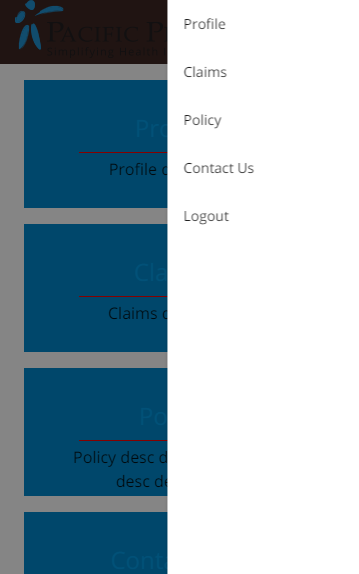
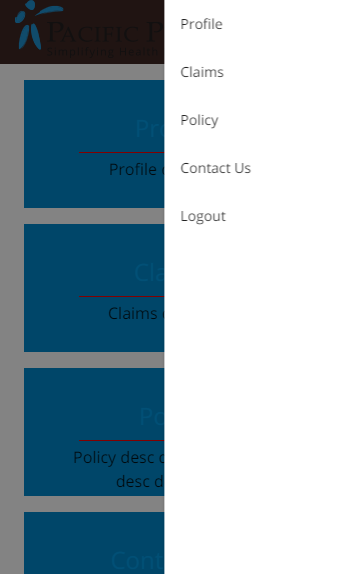
browser test add logout btn screen

Changed region(s): [[0.4596, 0.0, 0.7047, 1.0]]

diff --git a/browser_test/BaseTestCase.php b/browser_test/BaseTestCase.php
@@ -27,12 +27,18 @@ class BaseTestCase extends TestCase
     public function mobileSetUp()
     {
         $mobile = [
-            '--user-agent=Mozilla/5.0 (Linux; Android 6.0; Nexus 5 Build/MRA58N) AppleWebKit/537.36 (KHTML, like Gecko) Chrome/52.0.2725.0 Mobile Safari/537.36',
-            '--window-size=375,667',
-            '--hide-scrollbars',
+            //'--user-agent=Mozilla/5.0 (Linux; Android 6.0; Nexus 5 Build/MRA58N) AppleWebKit/537.36 (KHTML, like Gecko) Chrome/52.0.2725.0 Mobile Safari/537.36',
+            '--window-size=450,900',
+            //'--hide-scrollbars',
         ];
         $options = new ChromeOptions();
         $options->addArguments($mobile);
+
+        //may need later .... set download dir
+        //$prefs = array('download.default_directory' => 'c:/temp/');
+        //$options->setExperimentalOption('prefs', $prefs);
+
+        $options->setExperimentalOption('mobileEmulation', ['deviceName' => 'Apple iPhone 6']);
         $caps = DesiredCapabilities::chrome();
         $caps->setCapability(ChromeOptions::CAPABILITY, $options);
         $this->webDriver = RemoteWebDriver::create('http://localhost:9515', $caps);

diff --git a/browser_test/MainPagePcTest.php b/browser_test/MainPagePcTest.php
@@ -42,6 +42,9 @@ class MainPagePcTest extends \BaseTestCase
         $div->click();
 
         $this->assertTrue($dropDown->isDisplayed());
+
+        $this->webDriver->takeScreenshot(__Dir__.'/screen/'.$this->type.'/main-logout-btn.jpg');
+
         $dropDown->click();
 
         $this->assertEquals($this->url, $this->webDriver->getCurrentURL());
